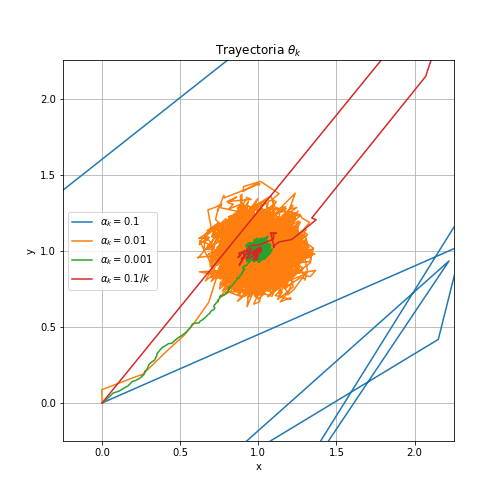
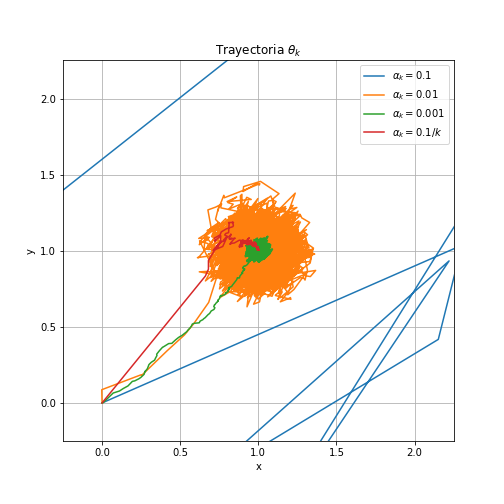
update ob5

diff --git a/ob5/ej2.py b/ob5/ej2.py
@@ -1,6 +1,7 @@
 # -*- coding: utf-8 -*-
 
 import numpy as np
+np.random.seed(5)
 import matplotlib.pyplot as plt
 
 gatos = np.loadtxt('Gatos.asc').astype(np.uint8)
@@ -12,7 +13,7 @@ def vect2img(x):
 
 
 plt.figure()
-plt.imshow(vect2img(gatos[:, 1]))
+plt.imshow(vect2img(gatos[:, 0]))
 #%%
 
 plt.figure()
@@ -35,11 +36,13 @@ def ReLU(x, epsilon):
     else:
         return epsilon * x
     
-def F(x, y, a):
+def F(x, y, a, n):
     if a.T@x <= 0:
         value = epsilon
+        #print('chico'+ ' '+ n)
     else:
         value = 1
+        #print('grande'+ ' '+ n)
     return 2 * (-y + ReLU(a.T@x, epsilon)) * value * x
 
 # gatos   : label=0
@@ -50,17 +53,22 @@ conejo_label = 1
 step = ConstantStep(1e-9)
 
 a = np.zeros((gatos.shape[0],1))
-
+ases = list()
+ases.append(a)
 #%%
+from tqdm import tqdm
 K = 20
-N_EPOCHS = 50
-for n in range(N_EPOCHS):
+N_EPOCHS = 100
+for n in tqdm(range(N_EPOCHS)):
     for k in range(K):
         gato = gatos[:, k:k+1]
         conejo = conejos[:, k:k+1]
-        
-        a = a - step.step()*F(gato, gato_label, a)
-        a = a - step.step()*F(conejo, conejo_label, a)
+        a = a - step.step()*F(gato, gato_label, a, 'gato')
+        #print(np.unique(a))
+        #ases.append(a)
+        a = a - step.step()*F(conejo, conejo_label, a, 'conejo')
+        #print(np.unique(a))
+        #ases.append(a)
         
 #%%
 # Train
@@ -92,3 +100,48 @@ for k in range(20,30):
     conejo = conejos[:, k:k+1]
     v = a.T@conejo
     print(v, label(v))
+    
+#%%
+plt.figure(figsize=(7,7))
+for k in range(20):
+    plt.scatter(gatos[:,k]@a, k, c='g', label='gatos')
+    plt.scatter(conejos[:,k]@a, k, c='r', label='gatos')
+plt.axvline(0.5)
+plt.legend(['linea divisoria', 'gatos', 'conejos'])
+plt.title('Ejemplos de train')
+plt.xlabel(r'$a^Tx$')
+plt.ylabel('Indice')
+plt.grid(True)
+plt.savefig('figures/ej2_train')
+
+#%%
+plt.figure(figsize=(7,7))
+for k in range(20,30):
+    plt.scatter(gatos[:,k]@a, k, c='g', label='gatos', marker='o')
+    plt.scatter(conejos[:,k]@a, k, c='r', label='gatos', marker='x')
+plt.axvline(0.5)
+plt.legend(['linea divisoria', 'gatos', 'conejos'])
+plt.title('Ejemplos de validación')
+plt.xlabel(r'$a^Tx$')
+plt.ylabel('Indice')
+plt.grid(True)
+plt.savefig('figures/ej2_val')
+
+#%%
+def a2img(a):
+    v = vect2img(a)
+    v -= v.min()
+    v /= v.max()
+    v *= 255
+    v = v.astype(np.uint8)
+    return v
+
+
+import imageio
+plt.figure()
+plt.imshow(v:=a2img(a))
+#plt.title(fr'$a$')
+plt.axis(False)
+imageio.imsave('figures/ej2_a.png', v)
+
+

diff --git a/ob5/ej1.py b/ob5/ej1.py
@@ -16,7 +16,7 @@ class DecreasingStep:
     def __init__(self, const, *k1, **k2):
         self.const = const
     def step(self, k):
-        return self.const/k
+        return self.const/(k+5)
     def __str__(self):
         return fr'$\alpha_k = {self.const}/k$'
 
